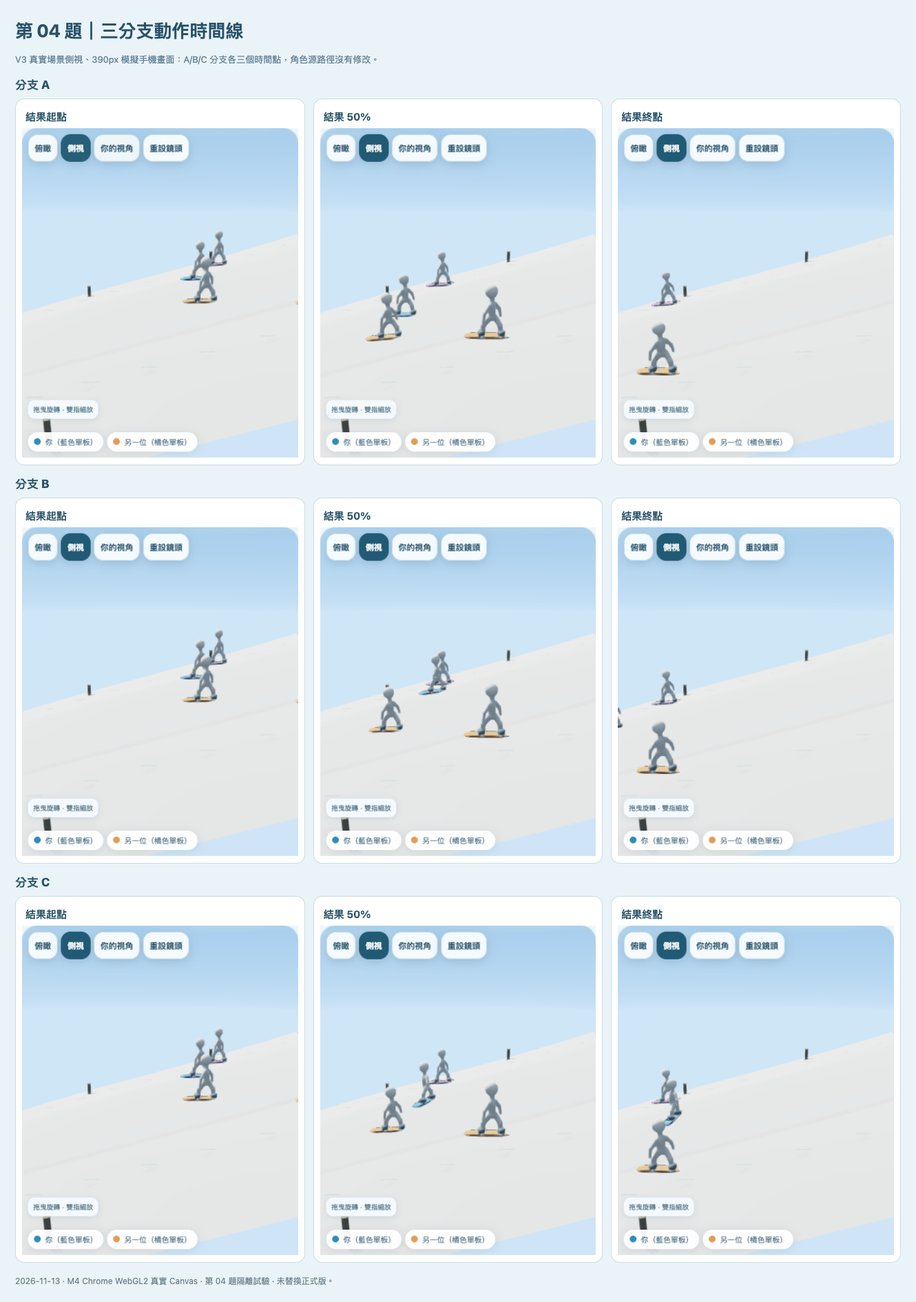
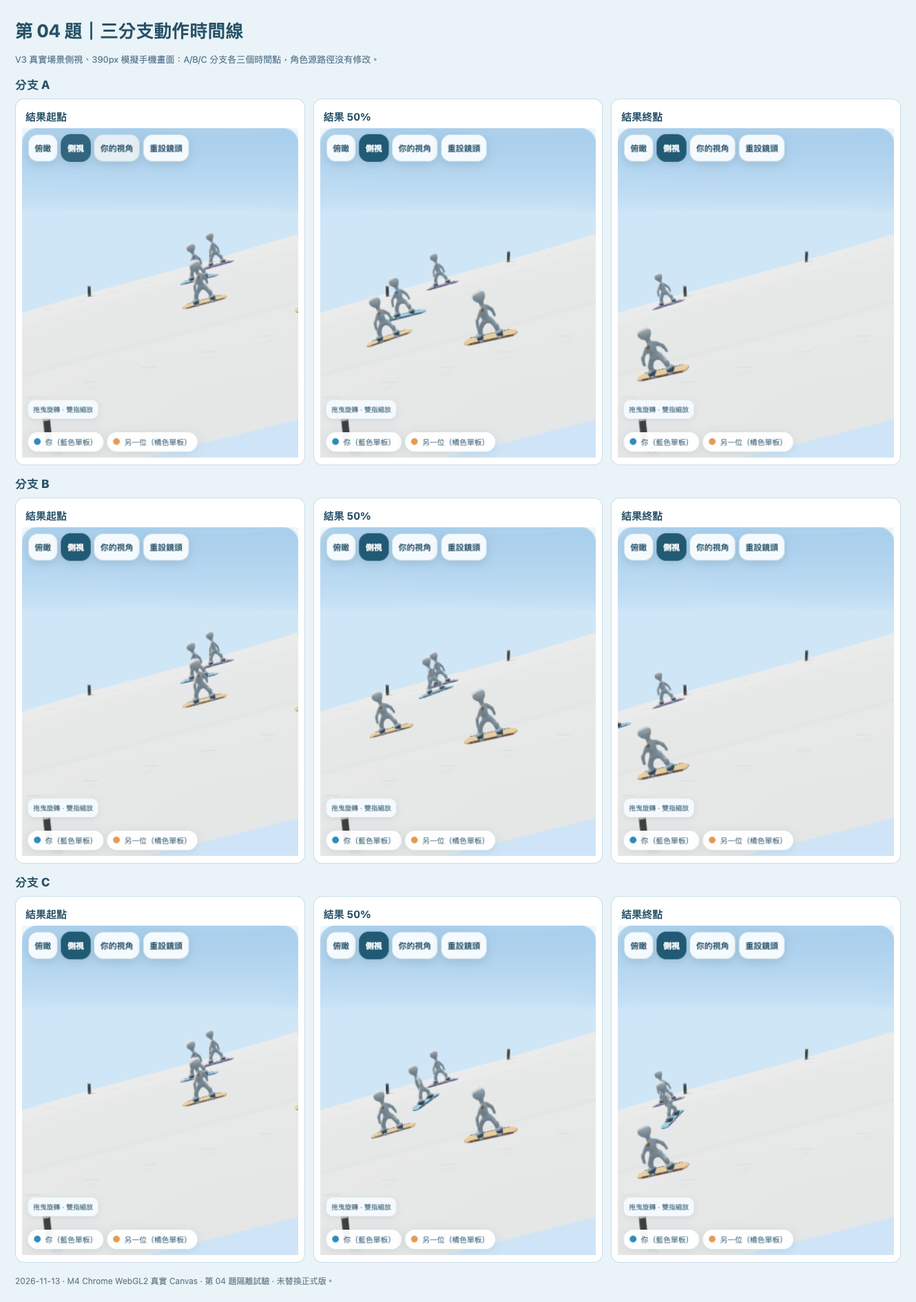
fix(67js): ground-fit snowboard and subtle facing markers in scene04 (#7)

diff --git a/experiments/67js-opt/shared/smooth-motion-rig.js b/experiments/67js-opt/shared/smooth-motion-rig.js
@@ -10,8 +10,9 @@
  * The pose is an illustrative procedural motion, not a verified biomechanics
  * solver: no independent speed, collisions, falling or knee physics inferred.
  */
-import {buildSmoothHuman,poseDefinitions} from '../rig-lab/smooth-skin.js';
+import {buildSmoothHuman,poseDefinitions,skinField} from '../rig-lab/smooth-skin.js';
 import {createGeometricRider,poseGeometricRider} from './geometric-rig.js';
+import {fitSnowboardToTerrain,snowboardSurfaceMatrix} from './snowboard-ground.js';
 
 const N_JOINTS=7;
 const J={ankles:0,torso:1,frontKnee:2,rearKnee:3,frontArm:4,rearArm:5,head:6};
@@ -112,13 +113,64 @@ function skinnedMesh(){
  return sharedGeometry;
 }
 
+// The colored marks are cut from the exact connected surface rather than
+// floating flat tags. They share the body's GPU joint palette, so they remain
+// flush while knees/torso deform. Shape itself stays smooth and featureless.
+const FACING_PALETTE={blue:[.16,.44,.80],orange:[.95,.42,.19],purple:[.60,.36,.77]};
+let sharedFacingDecals;
+export function buildFacingDecals(mesh){
+ const field=skinField(poseDefinitions('snowboard'));
+ const onSurface=(side,y,z)=>{
+  // Find the original single body's SDF zero crossing. This wraps the tiny
+  // emblem onto the chest/back with no floating rigid tag or giant blob.
+  const middle=.075;
+  let lo=side>0?middle:-.85,hi=side>0?.85:middle;
+  for(let i=0;i<25;i++){
+   const mid=(lo+hi)*.5,v=field([mid,y,z]);
+   if(side>0){if(v>0)hi=mid;else lo=mid;}
+   else {if(v>0)lo=mid;else hi=mid;}
+  }
+  const x=(lo+hi)*.5;
+  const h=.004;
+  const normal=[(field([x+h,y,z])-field([x-h,y,z]))/(2*h),
+   (field([x,y+h,z])-field([x,y-h,z]))/(2*h),
+   (field([x,y,z+h])-field([x,y,z-h]))/(2*h)];
+  const m=Math.hypot(...normal)||1,unit=normal.map(v=>v/m);
+  return {position:[x+unit[0]*.018,y+unit[1]*.018,z+unit[2]*.018],normal:unit};
+ };
+ const ellipse=(side,center,radial)=>{
+  const vertices=[],normals=[],indices=[];
+  const append=(y,z)=>{const {position,normal}=onSurface(side,y,z);vertices.push(...position);normals.push(...normal);};
+  append(...center);
+  const SEGMENTS=28;
+  for(let i=0;i<SEGMENTS;i++){
+   const a=i*Math.PI*2/SEGMENTS;
+   append(center[0]+radial[0]*Math.cos(a),center[1]+radial[1]*Math.sin(a));
+  }
+  for(let i=0;i<SEGMENTS;i++){
+   const next=(i+1)%SEGMENTS+1;
+   if(side>0)indices.push(0,i+1,next);
+   else indices.push(0,next,i+1);
+  }
+  const geometry={positions:new Float32Array(vertices),normals:new Float32Array(normals),indices:new Uint32Array(indices)};
+  return {...geometry,...buildSkinInfluences(geometry)};
+ };
+ return {
+  // A small rounded dot at the front, never a visor or facial feature.
+  front:ellipse(1,[1.93,.035],[.085,.077]),
+  // One narrow vertical capsule-like stripe on the upper back.
+  back:ellipse(-1,[1.91,.035],[.155,.043])
+ };
+}
+function facingDecals(){return sharedFacingDecals||(sharedFacingDecals=buildFacingDecals(skinnedMesh()));}
+
 function fallbackSkinPose(){
  const matrices=new Float32Array(N_JOINTS*16);
  for(let i=0;i<N_JOINTS;i++)matrices.set(IDENTITY,i*16);
  return {jointMatrices:matrices};
 }
 
-export function createSmoothMotionRigChoice({geometry,legacyCreateRider,legacySetRiderPose,discipline='snowboard',createSkinPose}){
+export function createSmoothMotionRigChoice({geometry,legacyCreateRider,legacySetRiderPose,discipline='snowboard',createSkinPose,groundHeight=null}){
  if(discipline!=='snowboard')throw new TypeError('Scene 04 prototype requires snowboard');
  let style='legacy';
  const createRider=(id,palette='blue')=>{
@@ -131,17 +183,37 @@ export function createSmoothMotionRigChoice({geometry,legacyCreateRider,legacySe
   const smooth=geometry.makePart(id+'-smooth-body',skinnedMesh(),material);
   smooth.skin=createSkinPose?createSkinPose(N_JOINTS):fallbackSkinPose();
   smooth.matrix=geometry.matrix(0,-110,0);
-  return {id,legacy,gear,smooth,list:[...legacy.list,...gearParts,smooth]};
+  const decals=facingDecals(),tint=FACING_PALETTE[palette]||FACING_PALETTE.blue;
+  const markers=[['front-badge',decals.front],['back-stripe',decals.back]].map(([name,shape])=>{
+   const m=geometry.makePart(id+'-'+name,shape,geometry.material(...tint));
+   m.skin=smooth.skin;m.matrix=geometry.matrix(0,-110,0);
+   return m;
+  });
+  return {id,legacy,gear,smooth,markers,list:[...legacy.list,...gearParts,smooth,...markers]};
  };
  const setRiderPose=(actor,pose,opts={})=>{
   const showing=opts.visible!==false;
   legacySetRiderPose(actor.legacy,pose,{...opts,visible:showing&&style==='legacy'});
   poseGeometricRider(actor.gear,pose,{...opts,visible:showing&&style==='geometric'});
-  if(!showing||!pose||style!=='geometric'||opts.eye){actor.smooth.matrix=geometry.matrix(0,-110,0);return;}
+  const on=showing&&!!pose&&style==='geometric';
+  const hide=()=>{actor.smooth.matrix=geometry.matrix(0,-110,0);
+    for(const marker of actor.markers)marker.matrix=geometry.matrix(0,-110,0);};
+  if(!on){hide();return;}
   const p=opts.mini?{...pose,x:0,y:0,z:0}:pose;
-  // Only rotate/translate the source root, never recompute its authored path.
-  actor.smooth.matrix=geometry.matrix(p.x,p.y,p.z,1,1,1,p.yaw||0,(p.lean||0)*.48);
+  const frame=groundHeight&&!opts.mini?fitSnowboardToTerrain(p,groundHeight):null;
+  if(frame){
+   for(const d of actor.gear.definitions)if(d.role==='gear'){
+    const [x,y,z,sx,sy,sz]=d.position;
+    actor.gear.index[d.name].matrix=snowboardSurfaceMatrix(frame,[x,y,z],[sx,sy,sz]);
+   }
+  }
+  if(opts.eye){hide();return;}
+  // Existing authored root x/z/yaw is never changed. Only the V3 visual
+  // rider/deck surface receives a bounded vertical/tangent display offset.
+  actor.smooth.matrix=frame?snowboardSurfaceMatrix(frame,[0,0,0],[1,1,1],(p.lean||0)*.48)
+   :geometry.matrix(p.x,p.y,p.z,1,1,1,p.yaw||0,(p.lean||0)*.48);
   actor.smooth.skin.jointMatrices.set(poseJointMatrices(p));
+  for(const marker of actor.markers)marker.matrix=actor.smooth.matrix;
  };
  return {
   createRider,setRiderPose,

diff --git a/experiments/67js-opt/scene04-skin-compare/index.html b/experiments/67js-opt/scene04-skin-compare/index.html
@@ -3,14 +3,14 @@
 <style>
 :root{font-family:-apple-system,BlinkMacSystemFont,"Noto Sans TC",sans-serif;background:#e9f2f7;color:#234c63}*{box-sizing:border-box}body{margin:0}main{max-width:1420px;padding:18px 20px 40px;margin:auto}h1{font-size:clamp(23px,3vw,33px);margin:7px 0 10px;letter-spacing:-.02em}p{font-size:13px;color:#5e7d90;line-height:1.65}.kicker{font-size:11px;font-weight:800;color:#277497;letter-spacing:.14em}.note{background:#fff;padding:13px 16px;border:1px solid #c5dce6;border-radius:12px;margin-top:14px}.controls{display:flex;gap:10px;flex-wrap:wrap;align-items:center;border:1px solid #c5dce6;border-radius:14px;background:#fff;padding:14px 15px;margin:18px 0}label{display:flex;align-items:center;gap:8px;font-size:13px;font-weight:700}select,button{font:inherit;color:#24536c;background:#f7fafc;border:1px solid #adc8d7;padding:10px 11px;min-height:44px;border-radius:9px}button{font-size:13px;font-weight:700;cursor:pointer}button:hover{background:#dceef7}button:focus-visible,select:focus-visible{outline:3px solid #e5ad4d}.pair{display:grid;grid-template-columns:1fr 1fr;gap:14px}.pane{min-width:0;background:#fff;border:1px solid #c7dee8;border-radius:15px;overflow:hidden}.pane.v3{border-color:#5fa9a8}.pane .head{padding:12px 15px;font-weight:700;display:flex;justify-content:space-between;gap:8px}.pane small{font-size:11px;color:#67899f;font-weight:500}.pane iframe{width:100%;height:780px;border:0;display:block;background:#eaf5fb}.status{font:12px ui-monospace,SFMono-Regular,monospace;white-space:pre-wrap;color:#3c6b83;overflow-wrap:anywhere}
 @media(max-width:780px){main{padding:13px}.pair{grid-template-columns:1fr}.pane iframe{height:740px}.controls{gap:8px}label{flex:1 1 45%;min-width:0;justify-content:space-between}select{max-width:68%;min-width:0}.pane .head{font-size:14px}}
-</style></head><body><main><header><div class="kicker">3D SNOW SAFETY WORLD · ISSUE #7 · SCENE 04 ONLY · PRIVATE</div><h1>人多時控速｜經典角色 vs V3 動態連續曲面</h1><p>兩邊使用同一題、同一份 A/B/C 安全因果、同一時間點與相機。V3 身體可依原始進度和傾斜資訊彎曲，雙腳仍固定在同一片單板。此為工程試驗，不是安全動作認證或正式版本。</p></header>
+</style></head><body><main><header><div class="kicker">3D SNOW SAFETY WORLD · ISSUE #7 · SCENE 04 ONLY · PRIVATE</div><h1>人多時控速｜經典角色 vs V3.1 貼地動態人形</h1><p>兩邊使用同一題、同一份 A/B/C 安全因果、同一時間點與相機。V3.1 身體隨原始進度彎曲，雪板依雪坡高度貼地；正面小色章、背面短色條，兩腳仍固定同一片板。此為工程試驗，不是安全動作認證或正式版本。</p></header>
 <section class="controls" aria-label="同時控制兩個場景">
  <label>分支 <select id="branch"><option value="A">A</option><option value="B" selected>B</option><option value="C">C</option></select></label>
  <label>鏡頭 <select id="view"><option value="top">俯視</option><option value="side" selected>側視</option><option value="eye">第一人稱</option></select></label>
  <label>時間點 <select id="moment"><option value="decision">選擇之前</option><option value="start">結果開始</option><option value="quarter">結果 25%</option><option value="mid" selected>結果 50%</option><option value="late">結果 80%</option><option value="result">結果結束</option></select></label>
  <button id="apply" type="button">同步兩側畫面</button>
  </section>
-<section class="pair"><article class="pane" aria-label="原始角色"><div class="head">A｜原始角色 <small>原有模型／可隨時回退</small></div><iframe id="classic" title="第 04 題原始角色互動播放器" src="./lesson04/"></iframe></article><article class="pane v3" aria-label="新 V3 角色"><div class="head">B｜V3 平滑動態人形 <small>連續表面／GPU 關節變形</small></div><iframe id="smooth" title="第 04 題 V3 互動播放器" src="./lesson04/"></iframe></article></section>
+<section class="pair"><article class="pane" aria-label="原始角色"><div class="head">A｜原始角色 <small>原有模型／可隨時回退</small></div><iframe id="classic" title="第 04 題原始角色互動播放器" src="./lesson04/"></iframe></article><article class="pane v3" aria-label="新 V3 角色"><div class="head">B｜V3.1 雪板貼地／方向色標 <small>貼地板具／正背識別</small></div><iframe id="smooth" title="第 04 題 V3 互動播放器" src="./lesson04/"></iframe></article></section>
 <div class="note"><strong>實際操作</strong><p>上方選單同步到指定時刻與鏡頭；各側下方的原場景仍可直接播放、暫停、變速、重試或選擇結果。手機視口採上下排列。第一人稱使用原本眼位與姿勢小窗，尚未把 V3 新頭部高度視為新的安全相機標準。</p><div id="status" role="status" aria-live="polite" class="status">載入 WebGL2 中…</div></div></main>
 <script>
 const $=id=>document.getElementById(id);const frames=[{el:$('classic'),rig:'legacy'},{el:$('smooth'),rig:'geometric'}];

diff --git a/experiments/67js-opt/shared/snowboard-ground.js b/experiments/67js-opt/shared/snowboard-ground.js
@@ -1,0 +1,73 @@
+/**
+ * Visual snowboard/ground contact for the isolated scene04 V3 pilot.
+ * No authored x/z/yaw/safety timeline is mutated. The 67.js existing H(x,z)
+ * remains the only snow-surface authority; we sample it under a single rigid
+ * deck and align the board's longitudinal pitch and transverse edge direction.
+ * It is a terrain-fitted graphic approximation, NOT a dynamics/pressure solver.
+ */
+const clamp=(v,low,high)=>Math.max(low,Math.min(high,v));
+const dot=(a,b)=>a[0]*b[0]+a[1]*b[1]+a[2]*b[2];
+const sub=(a,b)=>a.map((v,i)=>v-b[i]);
+const scale=(a,k)=>a.map(v=>v*k);
+const norm=a=>{const m=Math.hypot(...a)||1;return scale(a,1/m);};
+const cross=(a,b)=>[a[1]*b[2]-a[2]*b[1],a[2]*b[0]-a[0]*b[2],a[0]*b[1]-a[1]*b[0]];
+const add=(a,b)=>a.map((v,i)=>v+b[i]);
+
+export function terrainBoardPoint(frame,local){
+ const {origin,basis}=frame;
+ return [0,1,2].map(i=>origin[i]+basis.x[i]*local[0]+basis.y[i]*local[1]+basis.z[i]*local[2]);
+}
+
+export function fitSnowboardToTerrain(pose,groundHeight,opts={}){
+ if(typeof groundHeight!=='function')throw new TypeError('Scene04 requires the canonical H(x,z) function');
+ if(!pose||![pose.x,pose.y,pose.z,pose.yaw||0].every(Number.isFinite))throw new TypeError('Finite authored pose required');
+ const yaw=pose.yaw||0,cy=Math.cos(yaw),sy=Math.sin(yaw);
+ const longStep=1.22,wideStep=.45;
+ const H=(x,z)=>{const h=groundHeight(x,z);if(!Number.isFinite(h))throw new TypeError('Nonfinite snow geometry');return h;};
+ const along=(distance)=>H(pose.x+sy*distance,pose.z+cy*distance);
+ const across=(distance)=>H(pose.x+cy*distance,pose.z-sy*distance);
+ const longSlope=(along(longStep)-along(-longStep))/(longStep*2);
+ const wideSlope=(across(wideStep)-across(-wideStep))/(wideStep*2);
+ const z=norm([sy,longSlope,cy]);
+ const x0=[cy,wideSlope,-sy],x=norm(sub(x0,scale(z,dot(z,x0))));
+ const up=norm(cross(z,x));
+ // The board may tip very slightly onto one edge as authored lean changes,
+ // but no guessed longitudinal speed or snow-friction equation is introduced.
+ const edgeAngle=clamp((pose.lean||0)*.30,-.14,.14);
+ const ca=Math.cos(edgeAngle),sa=Math.sin(edgeAngle);
+ const basis={x:add(scale(x,ca),scale(up,sa)),y:sub(scale(up,ca),scale(x,sa)),z};
+ const clearance=opts.clearance??.016;
+ // Board and nose/tail parts have a ~.07-unit lower surface relative to
+ // deck-local origin. Test full contact width and both shaped board tips.
+ const deckBottom=opts.deckBottom??.073;
+ const base={origin:[pose.x,pose.y,pose.z],basis};
+ const points=[];
+ for(const zz of [-1.40,-1.19,-.68,0,.68,1.19,1.40])for(const xx of [-.275,0,.275]){
+  const local=[xx,deckBottom,zz],world=terrainBoardPoint(base,local);
+  const snow=H(world[0],world[2]);
+  points.push({x:xx,z:zz,snow,requiredLift:snow+clearance-world[1]});
+ }
+ const lift=Math.max(...points.map(v=>v.requiredLift));
+ const origin=[pose.x,pose.y+lift,pose.z];
+ const result={origin,basis,clearance,lift,edgeAngle,longSlope,wideSlope};
+ result.contactSamples=points.map(p=>{
+  const world=terrainBoardPoint(result,[p.x,deckBottom,p.z]);
+  return {x:p.x,z:p.z,gap:world[1]-p.snow,snow:p.snow};
+ });
+ return result;
+}
+
+/** A physically oriented rigid visual transform. Local source actor path stays
+ * unchanged; this only places the board/boots/skinned mesh near the snow. */
+export function snowboardSurfaceMatrix(frame,local=[0,0,0],size=[1,1,1],bodyRoll=0){
+ const c=Math.cos(bodyRoll),s=Math.sin(bodyRoll),b=frame.basis;
+ const ax=add(scale(b.x,c),scale(b.y,s));
+ const ay=sub(scale(b.y,c),scale(b.x,s));
+ const center=terrainBoardPoint(frame,local);
+ return new Float32Array([
+  ax[0]*size[0],ax[1]*size[0],ax[2]*size[0],0,
+  ay[0]*size[1],ay[1]*size[1],ay[2]*size[1],0,
+  b.z[0]*size[2],b.z[1]*size[2],b.z[2]*size[2],0,
+  ...center,1
+ ]);
+}

diff --git a/experiments/67js-opt/scene04/fixtures/facing-probe.js b/experiments/67js-opt/scene04/fixtures/facing-probe.js
@@ -1,0 +1,18 @@
+/** Static inspection camera for real V3.1 materials, not a public lesson. */
+import {Renderer67,createSkinPose} from '67js';
+import * as geometry from '../src/geometry.js';
+import {createSmoothMotionRigChoice} from '../../shared/smooth-motion-rig.js';
+const primitive=geometry.primitive;
+const choice=createSmoothMotionRigChoice({geometry,legacyCreateRider:()=>({list:[]}),legacySetRiderPose:()=>{},discipline:'snowboard',createSkinPose,groundHeight:()=>0});
+choice.setRigStyle('geometric');
+let role='blue',rider=choice.createRider('blue','blue'),view='front';
+const floor=geometry.makePart('snow-surface',primitive.box,geometry.material(.86,.90,.95),geometry.matrix(0,-.05,0,5,.1,5));
+const parts=[floor,...rider.list];
+const canvas=document.querySelector('#scene');
+const renderer=new Renderer67(canvas,parts,{ground:false,world:true,pixelRatio:1.2,samples:1,memoryBudgetMiB:90,
+ environment:{lightDirection:[-.5,.85,.4],keyIntensity:1.3,fillIntensity:1.15,ambientIntensity:.82,skyTop:[.64,.78,.89],skyBottom:[.83,.89,.95],fogDensity:0},shadows:false});
+const cameras={front:[6.2,2.65,0],back:[-6.2,2.65,0],side:[0,2.65,6.2],three:[3.7,2.65,4.9]};
+const pose={x:0,y:0,z:0,yaw:0,lean:.12,phaseProgress:.5};
+function render(){choice.setRiderPose(rider,pose);renderer.resize();renderer.updateParts([floor,...rider.list],{checks:false,shadows:false});renderer.render({eye:cameras[view],target:[0,1.5,0],fov:34,near:.05,far:100});}
+window.__facingProbe={setView(v){if(!(v in cameras))throw Error('view');view=v;render();},status(){return {view,role,parts:parts.length,frontCount:rider.markers[0].geometry.positions.length/3,backCount:rider.markers[1].geometry.positions.length/3,frontColor:rider.markers[0].material.color,backColor:rider.markers[1].material.color};}};
+render();

diff --git a/experiments/67js-opt/scene04/src/app.js b/experiments/67js-opt/scene04/src/app.js
@@ -7,7 +7,7 @@ import {translations} from './translations.js';
 import {worldParts} from './terrain-parts.js';
 import {SCENARIO,H,frameFor,causalChecks} from './scenario.js';
 import {clamp} from './geometry.js';
-const rigChoice=createSmoothMotionRigChoice({geometry,legacyCreateRider,legacySetRiderPose,discipline:'snowboard',createSkinPose});
+const rigChoice=createSmoothMotionRigChoice({geometry,legacyCreateRider,legacySetRiderPose,discipline:'snowboard',createSkinPose,groundHeight:H});
 startLessonRuntime({
  Renderer67,VERSION,worldParts,H,clamp,frameFor,causalChecks,createRider:rigChoice.createRider,setRiderPose:rigChoice.setRiderPose,rigChoice,rigDiscipline:'snowboard',translations,
  scenarioId:SCENARIO.id,edition:'Scene04-shared-gate',titleSuffix:' | 67.js Scene 04',

diff --git a/experiments/67js-opt/scene04/fixtures/facing-probe.html b/experiments/67js-opt/scene04/fixtures/facing-probe.html
@@ -1,0 +1,1 @@
+<!doctype html><html lang="zh-Hant"><head><meta charset="utf-8"><meta name="robots" content="noindex,nofollow"><link rel="icon" href="data:,"><title>Issue 7 V3.1 direction markers — QA only</title><style>body{margin:0;background:#eef4f7}canvas{display:block;width:720px;height:720px}</style></head><body><canvas id="scene"></canvas><script type="module" src="./facing-probe.js"></script></body></html>

diff --git a/docs/rig-issue7-scene04-v31-contact-and-facing-20261113.md b/docs/rig-issue7-scene04-v31-contact-and-facing-20261113.md
@@ -1,0 +1,53 @@
+# Issue #7 — Scene 04 V3.1 / Snow contact + minimal orientation markers
+
+Date: 2026-11-13 Asia/Taipei. Engineering status: **PILOT / Owner visual review**.
+
+## Bounded purpose
+
+Owner identified two errors in scene 04's previous V3 GPU-skinned snowboarder:
+1. snowboard appeared to float or cut into the sloping terrain rather than glide on it;
+2. featureless white/gray front and back were difficult to distinguish.
+
+This isolated trial addresses *only* those two visible problems in lesson 04. The default remains the existing classic rider; the old/new A/B button and private, paired comparison page remain available. No changes to authored safety data, actor x/z tracks or yaw/lean/branch, shared Runtime/camera/phase/RAF, the public `site/` output, the UX onboarding branch, or the nine other lessons.
+
+## Actual implementation
+
+- `shared/snowboard-ground.js`: receives authored source x/y/z/yaw and the canonical scene `H(x,z)`. Samples snow along a board-length ±1.22-unit tangent and ±0.45-unit cross slope, builds a right-handed orthonormal board basis and bounded edge angle derived only from existing authored lean. A rigid board/boots/bindings assembly follows one terrain contact plane; contact samples at seven longitudinal positions × three lateral offsets find the small vertical lift needed to keep the deck outside the terrain. Body visual root follows the same basis and visual-only lift. **The timeline, scenario events, world-source authored root, camera height and safety consequences remain unchanged.**
+- `shared/smooth-motion-rig.js`: V3 GPU skin remains one shared continuous body with per-actor skin joint palette. Added a small forward-facing round color emblem and a short vertical upper-back stripe. Both are separate *surface-conforming*, GPU-skinned decal meshes, not joint balls or a face. Board role colors (blue, orange, purple) are reused; no clothing textures or borrowed third-party mesh assets. They disappear in the main first-person view, remain visible in the body inset, and disappear on classic rollback.
+- `scene04/src/app.js`: injects the **same canonical H** into the scene04-only visual rig choice; no duplicate snow-height authority.
+- `scene04-skin-compare/index.html`: clearly labels the V3.1 ground contact/orientation changes. Actual private preview is built outside the GitHub Pages `site/` tree.
+
+## Why the old board was visibly wrong
+
+Before this change, board parts were given a fixed local y offset and only yaw, while the authored scene's snow height drops along travel. At one verified scene04 B-branch midpoint, the old board part center was roughly **0.40 scene units above snow near the front and 0.11 units below snow near the tail** (centerline approximation, before board thickness). This cannot depict a properly snow-supported board. The V3.1 visual assembly fits local snow slope without changing the snowboarder's actual lesson path or pretending to compute real-world centimeters, forces or friction.
+
+## Verification bound to V3.1 source / final bundle
+
+- **Geometry unit tests PASS**: three branches A/B/C × six outcome progress samples × two principal actors (36 source rider pose cases) and seven longitudinal × three lateral points per pose (756 contact samples). All sampled board support gaps **0.016–0.064 illustrative scene units**, with none below terrain and max visual root adjustment **0.061 units**. In addition, both ambient traffic riders and intro/decision frames were sampled. A bounded smooth deck gap is not proof of physical edge mechanics or of all untested terrain/speeds.
+- Board source-root parity: source frame remained unchanged; snowboard matrix has non-flat longitudinal pitch, boot and binding matrices follow the identical fitted basis; both feet remain mounted to one board. The original old-gear path is retained for immediate classic rollback.
+- Front/back marker tests: exactly two minimal markers per V3 actor; one round chest emblem and one taller/narrower upper-back stripe, both on the body's skin palette and in the corresponding rider identity hue. Standalone actual M4 WebGL2 front/back/oblique screenshots show the final **clean round dot and clean single vertical stripe**, unlike an earlier jagged polygon attempt, which was rejected during review.
+- **Actual browser E2E PASS after the final source/bundle**: M4 Chrome 320×740, 390×844, 1280×820, × A/B/C × five sampled times = **45 exact pairs of authored actors**, and three views × three sizes = **nine screenshot A/B pairs**. 27 scene screenshots, screenshot contact sheets, real toggle/playback/demonstration/slow speed/retry/branch/first-person inset. Original published scene04 image pixels remain identical in the classic option (except transient toolbar hover region). Browser WebGL2 error and fallback behave as before.
+- Synthetic blur/no automatic resume is a handler-level check, not actual OS native tab lifecycle acceptance. The 60-second 390×844 viewport test **PASS**: stage and canvas height remained **440.6875 px**, document scroll height **1210 px**, no page elongation; synthetic blur paused until explicit resume. This is **not** native OS tab-switch acceptance.
+- **Original repository release Node tests 24/24 PASS**, and prior GPU fixed-root negative control still PASS (4,616 changed pixels for knee/progress, 5,316 for lean, 0 for repeating identical pose). Source contains no second RAF, engine, camera, or authored route/physics rewrite.
+
+## Lightweight M4 performance control (not GPU/phone benchmark)
+
+Three interleaved Chrome headless 390px trials, 2.3 seconds each, measured CDP main-thread TaskDuration median: published classic **14.48%**, V3.1 pilot in classic style **14.49%**, and V3.1 **15.68%**. Registered parts **169→217**, renderer batches **7→19**, with both A/B rigs and additional identity markers retained. This is a small noisy main-thread sample, **not** proof of acceptable physical phone FPS, GPU latency, battery, temperature, or statistically significant differences. Bundle SHA and performance JSON remain bound to this candidate and are not generalized to other scenes.
+
+## Curated evidence
+
+- `docs/rig-issue7-evidence/scene04-v31-facing-3views.png` — genuine M4 67.js front/back/oblique closeups.
+- `docs/rig-issue7-evidence/scene04-skinned-ab-mobile.png` — actual 390px simulated viewport paired top/side/eye screenshots.
+- `docs/rig-issue7-evidence/scene04-skinned-ab-desktop.png` — 1280px desktop paired screenshot.
+- `docs/rig-issue7-evidence/scene04-skinned-branch-timeline.png` — scene04 A/B/C three-step authored result screenshots.
+- `docs/rig-issue7-evidence/scene04-skinned-zoom.png` — near-zoom original vs V3.1 contact/markers in the actual lesson.
+
+All source QA JSON files and raw captures stay outside public source release and are not copied under `site/`. The M4 private Tailnet preview is a volatile review page, not a public deployment. The exact final commit/JS SHA is recorded after commit/rebuild for traceability.
+
+## Open gates / decision
+
+**GO to Owner scene04 visual comparison**: sampled board no longer floats/tunnels on the authored local snow; marker difference can identify front/back without a new detailed face or costume; A/B + scene operation preserved.
+
+**NO-GO to deployment or safety certification**: snow contact is a geometry-fit display approximation, not real snowboard pressure, carve/edge dynamics, flex or normal force; body movement is still procedural and not independently verified against real ski coaching. Unverified: actual iPhone Safari/Android Chrome, native tab background, 30-minute GPU/battery/heat, dynamic occlusion for every frame, snow contact on other terrain/scenes, professional snowboard technique and beginner comprehension. Do not interpret an automated PASS as a rider-skills endorsement.
+
+**Rollback:** switch to classic in the private scene without reloading/losing the branch/time, or leave this isolated feature branch unmerged and stop its private preview service. No `site/` restoration, public deployment rollback or resets of other active worktrees needed.
